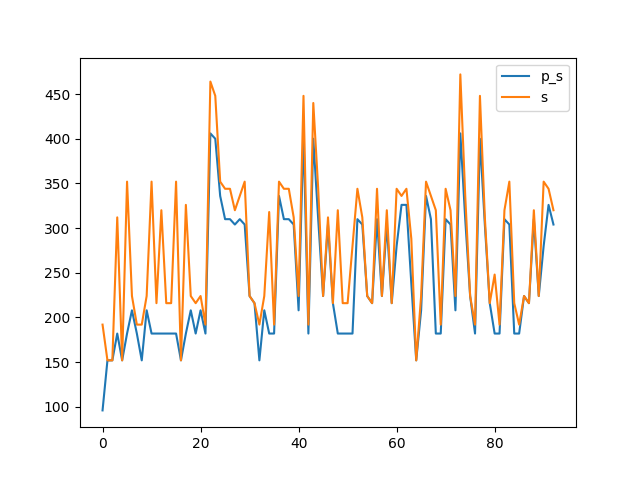
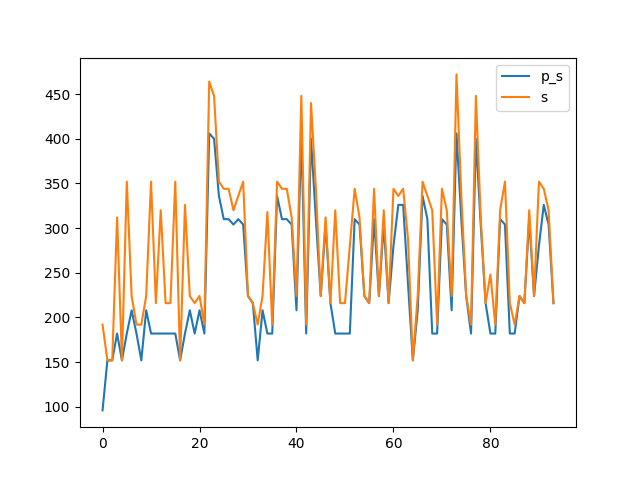
0x005D

diff --git a/benchmark.md b/benchmark.md
@@ -184,16 +184,18 @@ Synthesising 0x005B pexact:326 r=5 exact:344 r=4
 
 Synthesising 0x005C pexact:304 r=5 exact:320 r=4
 
+Synthesising 0x005D pexact:216 r=3 exact:216 r=3
+
 ```mermaid
 xychart-beta
     title "Comparison powertwoexact twoexact"
-    x-axis [0, 1, 2, 3, 4, 5, 6, 7, 8, 9, 10, 11, 12, 13, 14, 15, 16, 17, 18, 19, 20, 21, 22, 23, 24, 25, 26, 27, 28, 29, 30, 31, 32, 33, 34, 35, 36, 37, 38, 39, 40, 41, 42, 43, 44, 45, 46, 47, 48, 49, 50, 51, 52, 53, 54, 55, 56, 57, 58, 59, 60, 61, 62, 63, 64, 65, 66, 67, 68, 69, 70, 71, 72, 73, 74, 75, 76, 77, 78, 79, 80, 81, 82, 83, 84, 85, 86, 87, 88, 89, 90, 91, 92]
+    x-axis [0, 1, 2, 3, 4, 5, 6, 7, 8, 9, 10, 11, 12, 13, 14, 15, 16, 17, 18, 19, 20, 21, 22, 23, 24, 25, 26, 27, 28, 29, 30, 31, 32, 33, 34, 35, 36, 37, 38, 39, 40, 41, 42, 43, 44, 45, 46, 47, 48, 49, 50, 51, 52, 53, 54, 55, 56, 57, 58, 59, 60, 61, 62, 63, 64, 65, 66, 67, 68, 69, 70, 71, 72, 73, 74, 75, 76, 77, 78, 79, 80, 81, 82, 83, 84, 85, 86, 87, 88, 89, 90, 91, 92, 93]
     y-axis "Switching Activity" 0-->472
-    line [96, 152, 152, 182, 152, 182, 208, 182, 152, 208, 182, 182, 182, 182, 182, 182, 152, 182, 208, 182, 208, 182, 406, 400, 336, 310, 310, 304, 310, 304, 224, 216, 152, 208, 182, 182, 336, 310, 310, 304, 208, 406, 182, 400, 310, 224, 304, 216, 182, 182, 182, 182, 310, 304, 224, 216, 310, 224, 304, 216, 280, 326, 326, 238, 152, 208, 336, 310, 182, 182, 310, 304, 208, 406, 310, 224, 182, 400, 304, 216, 182, 182, 310, 304, 182, 182, 224, 216, 310, 224, 280, 326, 304]
-    line [192, 152, 152, 312, 152, 352, 224, 192, 192, 224, 352, 216, 320, 216, 216, 352, 152, 326, 224, 216, 224, 192, 464, 448, 352, 344, 344, 320, 336, 352, 224, 216, 192, 224, 318, 192, 352, 344, 344, 312, 224, 448, 192, 440, 344, 224, 312, 216, 320, 216, 216, 280, 344, 312, 224, 216, 344, 224, 320, 216, 344, 336, 344, 288, 152, 224, 352, 336, 320, 192, 344, 320, 224, 472, 336, 224, 192, 448, 312, 216, 248, 192, 320, 352, 216, 192, 224, 216, 320, 224, 352, 344, 320]
-    line [244.0, 244.0, 244.0, 244.0, 244.0, 244.0, 244.0, 244.0, 244.0, 244.0, 244.0, 244.0, 244.0, 244.0, 244.0, 244.0, 244.0, 244.0, 244.0, 244.0, 244.0, 244.0, 244.0, 244.0, 244.0, 244.0, 244.0, 244.0, 244.0, 244.0, 244.0, 244.0, 244.0, 244.0, 244.0, 244.0, 244.0, 244.0, 244.0, 244.0, 244.0, 244.0, 244.0, 244.0, 244.0, 244.0, 244.0, 244.0, 244.0, 244.0, 244.0, 244.0, 244.0, 244.0, 244.0, 244.0, 244.0, 244.0, 244.0, 244.0, 244.0, 244.0, 244.0, 244.0, 244.0, 244.0, 244.0, 244.0, 244.0, 244.0, 244.0, 244.0, 244.0, 244.0, 244.0, 244.0, 244.0, 244.0, 244.0, 244.0, 244.0, 244.0, 244.0, 244.0, 244.0, 244.0, 244.0, 244.0, 244.0, 244.0, 244.0, 244.0, 244.0]
-    line [279.0967741935484, 279.0967741935484, 279.0967741935484, 279.0967741935484, 279.0967741935484, 279.0967741935484, 279.0967741935484, 279.0967741935484, 279.0967741935484, 279.0967741935484, 279.0967741935484, 279.0967741935484, 279.0967741935484, 279.0967741935484, 279.0967741935484, 279.0967741935484, 279.0967741935484, 279.0967741935484, 279.0967741935484, 279.0967741935484, 279.0967741935484, 279.0967741935484, 279.0967741935484, 279.0967741935484, 279.0967741935484, 279.0967741935484, 279.0967741935484, 279.0967741935484, 279.0967741935484, 279.0967741935484, 279.0967741935484, 279.0967741935484, 279.0967741935484, 279.0967741935484, 279.0967741935484, 279.0967741935484, 279.0967741935484, 279.0967741935484, 279.0967741935484, 279.0967741935484, 279.0967741935484, 279.0967741935484, 279.0967741935484, 279.0967741935484, 279.0967741935484, 279.0967741935484, 279.0967741935484, 279.0967741935484, 279.0967741935484, 279.0967741935484, 279.0967741935484, 279.0967741935484, 279.0967741935484, 279.0967741935484, 279.0967741935484, 279.0967741935484, 279.0967741935484, 279.0967741935484, 279.0967741935484, 279.0967741935484, 279.0967741935484, 279.0967741935484, 279.0967741935484, 279.0967741935484, 279.0967741935484, 279.0967741935484, 279.0967741935484, 279.0967741935484, 279.0967741935484, 279.0967741935484, 279.0967741935484, 279.0967741935484, 279.0967741935484, 279.0967741935484, 279.0967741935484, 279.0967741935484, 279.0967741935484, 279.0967741935484, 279.0967741935484, 279.0967741935484, 279.0967741935484, 279.0967741935484, 279.0967741935484, 279.0967741935484, 279.0967741935484, 279.0967741935484, 279.0967741935484, 279.0967741935484, 279.0967741935484, 279.0967741935484, 279.0967741935484, 279.0967741935484, 279.0967741935484]
-    bar [80, 60, 60, 80, 60, 80, 80, 80, 60, 80, 80, 80, 80, 80, 80, 80, 60, 80, 80, 80, 80, 80, 120, 120, 100, 100, 100, 100, 100, 100, 60, 60, 60, 80, 80, 80, 100, 100, 100, 100, 80, 120, 80, 120, 100, 60, 100, 60, 80, 80, 80, 80, 100, 100, 60, 60, 100, 60, 100, 60, 80, 100, 100, 100, 60, 80, 100, 100, 80, 80, 100, 100, 80, 120, 100, 60, 80, 120, 100, 60, 80, 80, 100, 100, 80, 80, 60, 60, 100, 60, 80, 100, 100]
-    bar [80, 60, 60, 80, 60, 80, 60, 60, 60, 60, 80, 60, 80, 60, 60, 80, 60, 80, 60, 60, 60, 60, 100, 100, 80, 80, 80, 80, 80, 80, 60, 60, 60, 60, 80, 60, 80, 80, 80, 80, 60, 100, 60, 100, 80, 60, 80, 60, 80, 60, 60, 80, 80, 80, 60, 60, 80, 60, 80, 60, 80, 80, 80, 80, 60, 60, 80, 80, 80, 60, 80, 80, 60, 100, 80, 60, 60, 100, 80, 60, 80, 60, 80, 80, 60, 80, 60, 60, 80, 60, 80, 80, 80]
+    line [96, 152, 152, 182, 152, 182, 208, 182, 152, 208, 182, 182, 182, 182, 182, 182, 152, 182, 208, 182, 208, 182, 406, 400, 336, 310, 310, 304, 310, 304, 224, 216, 152, 208, 182, 182, 336, 310, 310, 304, 208, 406, 182, 400, 310, 224, 304, 216, 182, 182, 182, 182, 310, 304, 224, 216, 310, 224, 304, 216, 280, 326, 326, 238, 152, 208, 336, 310, 182, 182, 310, 304, 208, 406, 310, 224, 182, 400, 304, 216, 182, 182, 310, 304, 182, 182, 224, 216, 310, 224, 280, 326, 304, 216]
+    line [192, 152, 152, 312, 152, 352, 224, 192, 192, 224, 352, 216, 320, 216, 216, 352, 152, 326, 224, 216, 224, 192, 464, 448, 352, 344, 344, 320, 336, 352, 224, 216, 192, 224, 318, 192, 352, 344, 344, 312, 224, 448, 192, 440, 344, 224, 312, 216, 320, 216, 216, 280, 344, 312, 224, 216, 344, 224, 320, 216, 344, 336, 344, 288, 152, 224, 352, 336, 320, 192, 344, 320, 224, 472, 336, 224, 192, 448, 312, 216, 248, 192, 320, 352, 216, 192, 224, 216, 320, 224, 352, 344, 320, 216]
+    line [243.70212765957447, 243.70212765957447, 243.70212765957447, 243.70212765957447, 243.70212765957447, 243.70212765957447, 243.70212765957447, 243.70212765957447, 243.70212765957447, 243.70212765957447, 243.70212765957447, 243.70212765957447, 243.70212765957447, 243.70212765957447, 243.70212765957447, 243.70212765957447, 243.70212765957447, 243.70212765957447, 243.70212765957447, 243.70212765957447, 243.70212765957447, 243.70212765957447, 243.70212765957447, 243.70212765957447, 243.70212765957447, 243.70212765957447, 243.70212765957447, 243.70212765957447, 243.70212765957447, 243.70212765957447, 243.70212765957447, 243.70212765957447, 243.70212765957447, 243.70212765957447, 243.70212765957447, 243.70212765957447, 243.70212765957447, 243.70212765957447, 243.70212765957447, 243.70212765957447, 243.70212765957447, 243.70212765957447, 243.70212765957447, 243.70212765957447, 243.70212765957447, 243.70212765957447, 243.70212765957447, 243.70212765957447, 243.70212765957447, 243.70212765957447, 243.70212765957447, 243.70212765957447, 243.70212765957447, 243.70212765957447, 243.70212765957447, 243.70212765957447, 243.70212765957447, 243.70212765957447, 243.70212765957447, 243.70212765957447, 243.70212765957447, 243.70212765957447, 243.70212765957447, 243.70212765957447, 243.70212765957447, 243.70212765957447, 243.70212765957447, 243.70212765957447, 243.70212765957447, 243.70212765957447, 243.70212765957447, 243.70212765957447, 243.70212765957447, 243.70212765957447, 243.70212765957447, 243.70212765957447, 243.70212765957447, 243.70212765957447, 243.70212765957447, 243.70212765957447, 243.70212765957447, 243.70212765957447, 243.70212765957447, 243.70212765957447, 243.70212765957447, 243.70212765957447, 243.70212765957447, 243.70212765957447, 243.70212765957447, 243.70212765957447, 243.70212765957447, 243.70212765957447, 243.70212765957447, 243.70212765957447]
+    line [278.4255319148936, 278.4255319148936, 278.4255319148936, 278.4255319148936, 278.4255319148936, 278.4255319148936, 278.4255319148936, 278.4255319148936, 278.4255319148936, 278.4255319148936, 278.4255319148936, 278.4255319148936, 278.4255319148936, 278.4255319148936, 278.4255319148936, 278.4255319148936, 278.4255319148936, 278.4255319148936, 278.4255319148936, 278.4255319148936, 278.4255319148936, 278.4255319148936, 278.4255319148936, 278.4255319148936, 278.4255319148936, 278.4255319148936, 278.4255319148936, 278.4255319148936, 278.4255319148936, 278.4255319148936, 278.4255319148936, 278.4255319148936, 278.4255319148936, 278.4255319148936, 278.4255319148936, 278.4255319148936, 278.4255319148936, 278.4255319148936, 278.4255319148936, 278.4255319148936, 278.4255319148936, 278.4255319148936, 278.4255319148936, 278.4255319148936, 278.4255319148936, 278.4255319148936, 278.4255319148936, 278.4255319148936, 278.4255319148936, 278.4255319148936, 278.4255319148936, 278.4255319148936, 278.4255319148936, 278.4255319148936, 278.4255319148936, 278.4255319148936, 278.4255319148936, 278.4255319148936, 278.4255319148936, 278.4255319148936, 278.4255319148936, 278.4255319148936, 278.4255319148936, 278.4255319148936, 278.4255319148936, 278.4255319148936, 278.4255319148936, 278.4255319148936, 278.4255319148936, 278.4255319148936, 278.4255319148936, 278.4255319148936, 278.4255319148936, 278.4255319148936, 278.4255319148936, 278.4255319148936, 278.4255319148936, 278.4255319148936, 278.4255319148936, 278.4255319148936, 278.4255319148936, 278.4255319148936, 278.4255319148936, 278.4255319148936, 278.4255319148936, 278.4255319148936, 278.4255319148936, 278.4255319148936, 278.4255319148936, 278.4255319148936, 278.4255319148936, 278.4255319148936, 278.4255319148936, 278.4255319148936]
+    bar [80, 60, 60, 80, 60, 80, 80, 80, 60, 80, 80, 80, 80, 80, 80, 80, 60, 80, 80, 80, 80, 80, 120, 120, 100, 100, 100, 100, 100, 100, 60, 60, 60, 80, 80, 80, 100, 100, 100, 100, 80, 120, 80, 120, 100, 60, 100, 60, 80, 80, 80, 80, 100, 100, 60, 60, 100, 60, 100, 60, 80, 100, 100, 100, 60, 80, 100, 100, 80, 80, 100, 100, 80, 120, 100, 60, 80, 120, 100, 60, 80, 80, 100, 100, 80, 80, 60, 60, 100, 60, 80, 100, 100, 60]
+    bar [80, 60, 60, 80, 60, 80, 60, 60, 60, 60, 80, 60, 80, 60, 60, 80, 60, 80, 60, 60, 60, 60, 100, 100, 80, 80, 80, 80, 80, 80, 60, 60, 60, 60, 80, 60, 80, 80, 80, 80, 60, 100, 60, 100, 80, 60, 80, 60, 80, 60, 60, 80, 80, 80, 60, 60, 80, 60, 80, 60, 80, 80, 80, 80, 60, 60, 80, 80, 80, 60, 80, 80, 60, 100, 80, 60, 60, 100, 80, 60, 80, 60, 80, 80, 60, 80, 60, 60, 80, 60, 80, 80, 80, 60]
 ```
 
